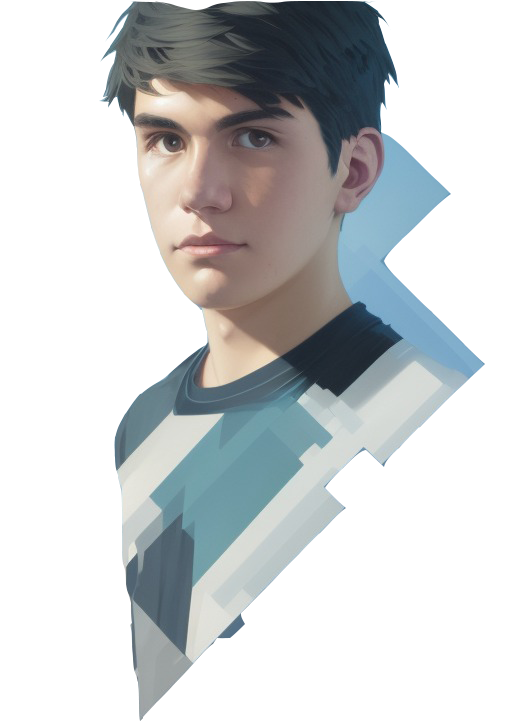
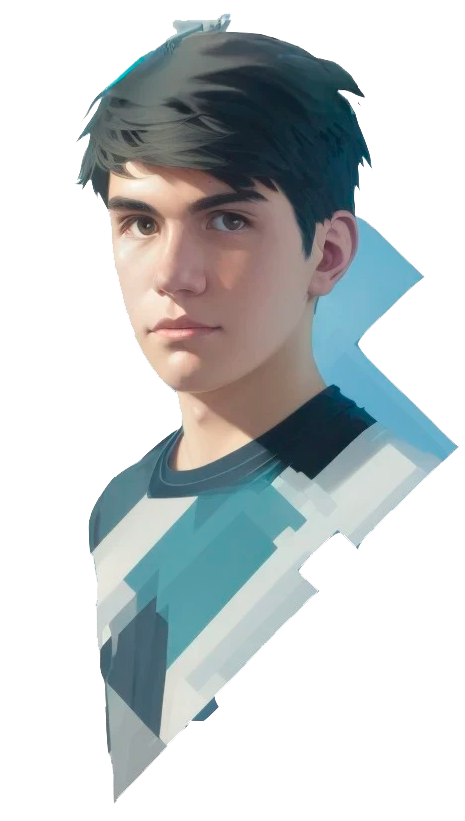
update

diff --git a/src/components/Banner.js b/src/components/Banner.js
@@ -4,6 +4,7 @@ import headerImg from "../assets/img/header-img.png";
 import { ArrowRightCircle } from 'react-bootstrap-icons';
 import 'animate.css';
 import TrackVisibility from 'react-on-screen';
+import './../App.css';
 
 export const Banner = () => {
   const [loopNum, setLoopNum] = useState(0);
@@ -66,7 +67,7 @@ export const Banner = () => {
             <TrackVisibility>
               {({ isVisible }) =>
                 <div className={isVisible ? "animate__animated animate__zoomIn" : ""}>
-                  <img src={headerImg} alt="Header Img"/>
+                  <img src={headerImg} alt="Header Img" className="Header-img"/>
                 </div>}
             </TrackVisibility>
           </Col>

diff --git a/src/App.css b/src/App.css
@@ -286,6 +286,11 @@ nav.navbar .navbar-toggler[aria-expanded="true"] .navbar-toggler-icon {
   animation: updown 3s linear infinite;
 }
 
+.Header-img {
+  width: 67%;
+  margin-left: 20%;
+}
+
 @keyframes updown {
     0% {
         transform: translateY(-20px);
